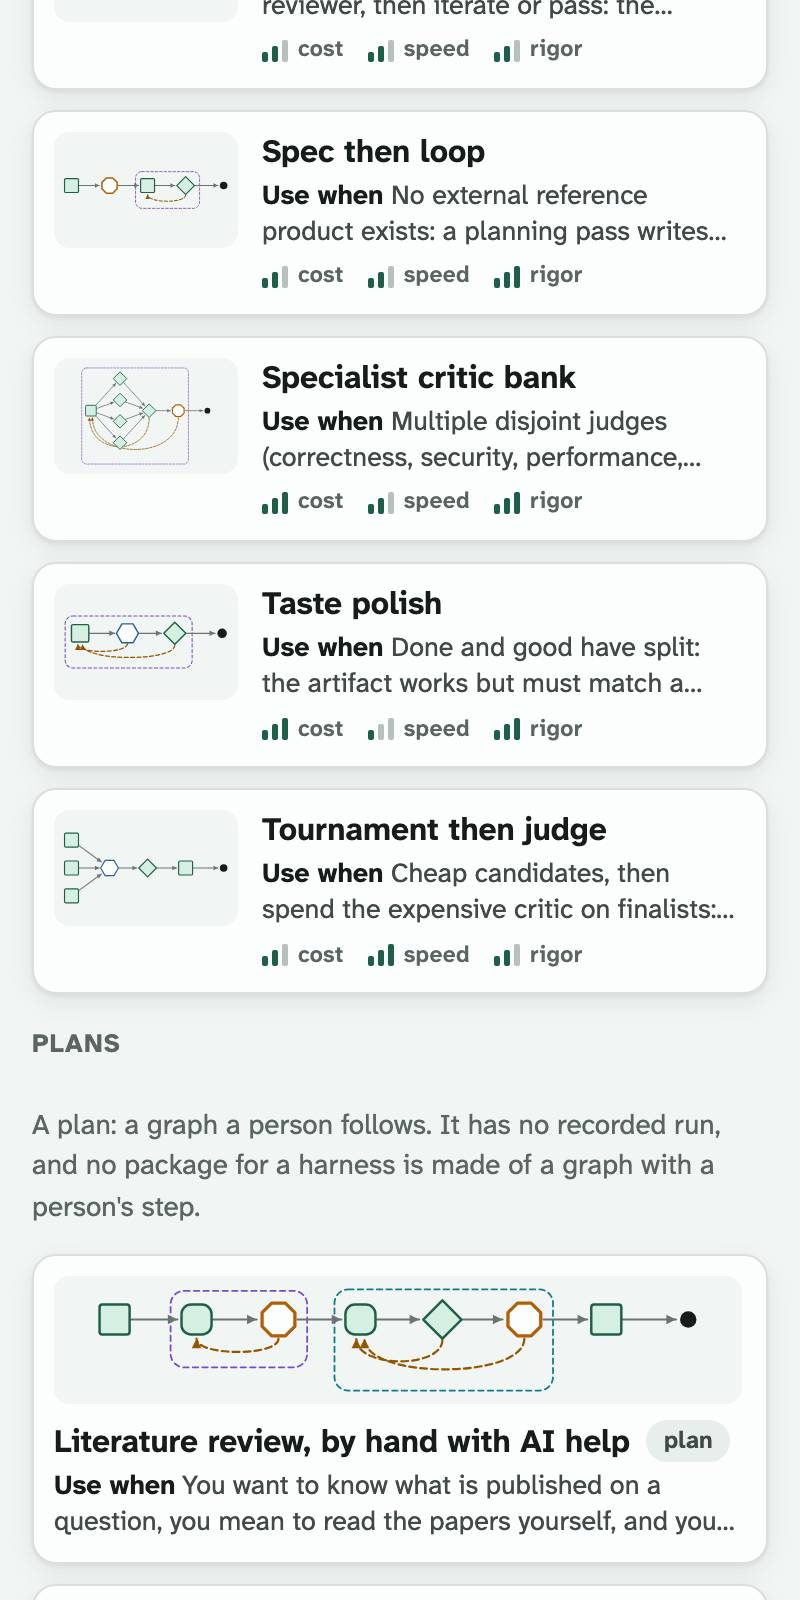
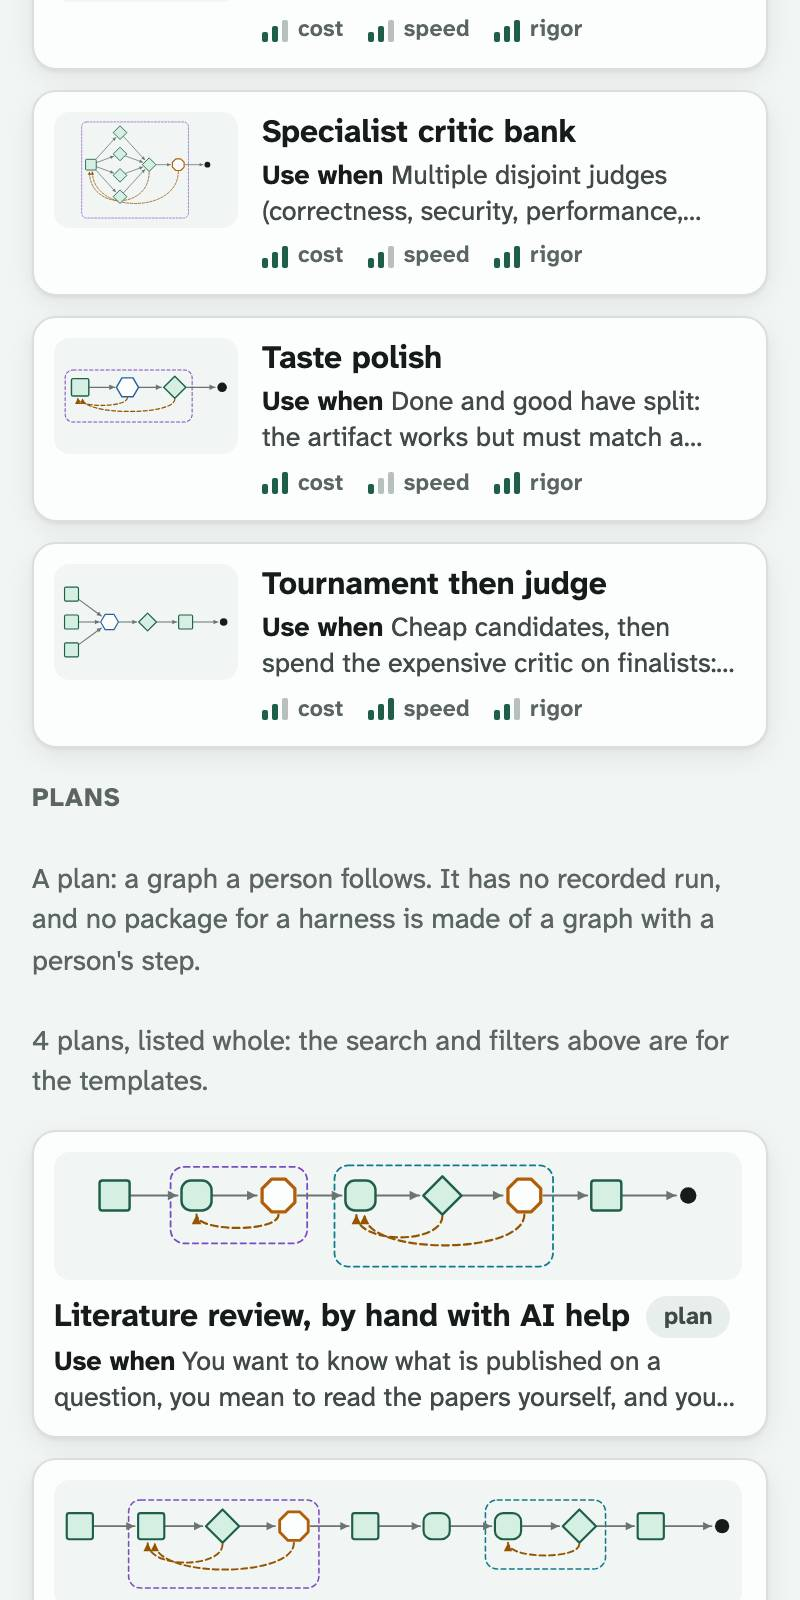
web: after an independent read: the embed and the 3D view call a person's step Person; the plans are listed whole
The embed's names and brief, and the view in three dimensions, say "Person" with
no tier and no capabilities. The search, filters and count on the templates
screen are the templates' own: the plans are listed whole under their heading,
with a line that says they came and takes the focus the button had. The lead is
not offered the switch; an agent's fields left on a person's step can be taken
off where the inspector says so. plans/README.md says what the app now shows.

Changed region(s): [[0.0312, 0.4688, 0.9375, 1.0], [0.0625, 0.0, 0.9375, 0.4688], [0.0625, 0.2188, 0.25, 0.2812]]

diff --git a/apps/web/e2e/person.spec.ts b/apps/web/e2e/person.spec.ts
@@ -3,7 +3,7 @@ import { join } from "node:path";
 
 import { expect, test } from "@playwright/test";
 
-import { closeSheet, fixturePath, importDocument, node, sheet, status, toolbar } from "./support.js";
+import { closeSheet, fixturePath, importDocument, linkFor, node, reviewLoop, sheet, status, toolbar } from "./support.js";
 
 /**
  * Slice 0100, the app's second part (amendment A-020): a step may be a person's. The inspector's switch, the
@@ -47,7 +47,7 @@ test("Done by: a person. The card says Person with the role alone, an agent's fi
   // The sheet calls the step what the card calls it.
   await expect(s.getByRole("heading", { name: "Person" })).toBeVisible();
   await expect(s.getByRole("button", { name: "Delete person" })).toBeVisible();
-  await expect(s).toContainText("A person does this step. It has no model, effort or capabilities; a graph with a person's step is a plan, and no package is made of it yet.");
+  await expect(s).toContainText("A person does this step. It has no model, effort, skills or capabilities; a graph with a person's step is a plan, and no package is made of it yet.");
   // No error of the graph: the builder's work is still judged, by a person now.
   await expect(status(page)).not.toHaveText(/error/);
   if (shots) {
@@ -65,7 +65,8 @@ test("Done by: a person. The card says Person with the role alone, an agent's fi
   await closeSheet(page);
   await status(page).tap();
   await expect(s.getByRole("group", { name: "For a package" })).toContainText("Every step an agent's: Critic is a person's, and grooph cannot yet hand a step to a person inside a harness.");
-  await expect(s.locator(".issue-code")).not.toContainText(["E_PERSON_STEP_NOT_COMPILED"]);
+  // Said as a need, in words, and nowhere as a code or an error.
+  await expect(s).not.toContainText("E_PERSON_STEP_NOT_COMPILED");
   await closeSheet(page);
 
   // One edit, so one Undo: the step is an agent's again, on its tier and at its effort, with its capabilities.
@@ -98,6 +99,19 @@ test("the plans are listed apart, under their own heading, fetched when they are
   const rows = page.getByRole("list", { name: "Plan templates" }).locator("a.template-row");
   await expect(rows).toHaveCount(4);
   expect(asked.length).toBe(1);
+  // The button is gone; what says the plans came is still there, and has the focus the button had.
+  await expect(plans.getByRole("status")).toHaveText("4 plans, listed whole: the search and filters above are for the templates.");
+  await expect(plans.getByRole("status")).toBeFocused();
+  // The search, the filters and the count are the templates' own: the plans stay, whole, and the count is of the twenty.
+  const search = page.getByRole("searchbox", { name: "Search templates" });
+  await search.fill("solo");
+  await expect(page.locator(".browse-shown")).toHaveText("0 of 20");
+  await expect(page.locator(".browse-none")).toContainText("No template matches.");
+  await expect(rows).toHaveCount(4);
+  // What says no template matches is said before the plans, not under them.
+  expect(await page.locator(".browse-none").evaluate((el) => !!(el.compareDocumentPosition(document.getElementById("plans-title")!) & Node.DOCUMENT_POSITION_FOLLOWING))).toBe(true);
+  await search.fill("");
+  await expect(page.locator(".browse-shown")).toHaveText("20 templates");
   await expect(rows.locator(".template-title")).toHaveText([/^Literature review.*plan$/, /^Research study.*plan$/, /^Solo project.*plan$/, /^Team handoffs.*plan$/]);
   // A plan's profile was not measured, so no meters are drawn for it; the twenty keep theirs.
   await expect(page.getByRole("list", { name: "Plan templates" }).locator(".template-meters")).toHaveCount(0);
@@ -148,11 +162,68 @@ test("the plans refused: the list says so and tries again; a plan's own address 
   // The built-in templates are listed all the same.
   await expect(page.getByRole("list", { name: "Built-in templates" }).locator("a.template-row")).toHaveCount(20);
 
-  await page.goto("./#/templates/plan/solo-project");
-  await expect(page.locator(".notfound")).toContainText("The plans could not be fetched. They need a connection the first time.");
-
+  // With the connection back, the same button, pressed on the same page, fetches them.
   refuse = false;
-  await page.goto("./#/templates");
-  await page.getByRole("region", { name: "Plans" }).getByRole("button", { name: "Show the plans" }).tap();
+  await plans.getByRole("button", { name: "Try again" }).tap();
   await expect(page.getByRole("list", { name: "Plan templates" }).locator("a.template-row")).toHaveCount(4);
+
+  // A plan's own address, opened by a visit that cannot fetch the plans, says so.
+  refuse = true;
+  await page.goto("./#/templates/plan/solo-project");
+  await page.reload();
+  await expect(page.locator(".notfound")).toContainText("The plans could not be fetched. They need a connection the first time.");
+});
+
+test("the lead is never offered to a person; an agent's fields left on a person's step can be taken off where they are said", async ({ page }) => {
+  const doc = reviewLoop();
+  const critic = doc.nodes.find((n) => n.id === "critic")!;
+  // A document made elsewhere: a person's step that still carries a tier, an effort and capabilities, and a lead.
+  Object.assign(critic, { by: "person" });
+  Object.assign(doc.nodes.find((n) => n.id === "builder")!, { role: "lead" });
+  await importDocument(page, "review-loop.grooph.json", JSON.stringify(doc));
+  const s = sheet(page);
+  await status(page).tap();
+  await expect(s).toContainText("W_PERSON_FIELDS_NOT_READ");
+  await closeSheet(page);
+
+  await node(page, "critic").tap();
+  await expect(s).toContainText("A person does this step, and it still has an agent's model, effort, skills or capabilities, which are not read.");
+  await s.getByRole("button", { name: "Take them off" }).tap();
+  await expect(s).toContainText("A person does this step. It has no model, effort, skills or capabilities;");
+  await expect(s.getByRole("button", { name: "Take them off" })).toHaveCount(0);
+  await closeSheet(page);
+  await status(page).tap();
+  await expect(s).not.toContainText("W_PERSON_FIELDS_NOT_READ");
+  await closeSheet(page);
+
+  // The lead: the session itself. No switch is drawn for it; its other fields are.
+  await node(page, "builder").tap();
+  await expect(s.getByLabel("Role")).toHaveValue("lead");
+  await expect(s.getByRole("radiogroup", { name: "Done by" })).toHaveCount(0);
+  await expect(s.getByRole("radiogroup", { name: "Model tier" })).toBeVisible();
+});
+
+test("a shared graph with a person's step: the embed and the view in three dimensions call the step Person, with no tier and no capabilities", async ({ page }) => {
+  const doc = reviewLoop();
+  // Left as a document made elsewhere might leave it: the mark, with the agent's fields still on the step.
+  Object.assign(doc.nodes.find((n) => n.id === "critic")!, { by: "person" });
+
+  await page.goto(linkFor(doc).replace("#/open?", "#/embed?"));
+  await expect(page.getByRole("button", { name: /^Agent Builder\b/ })).toBeVisible();
+  const critic = page.getByRole("button", { name: /^Person Critic\b/ });
+  await expect(critic).toBeVisible();
+  await expect(page.getByRole("button", { name: /^Agent Critic\b/ })).toHaveCount(0);
+  await critic.tap();
+  const brief = page.getByRole("dialog");
+  await expect(brief).toContainText("Person");
+  await expect(brief).toContainText("critic");
+  await expect(brief).not.toContainText("strong");
+  await expect(brief.getByText("May", { exact: true })).toHaveCount(0);
+  await expect(brief.getByText("May not", { exact: true })).toHaveCount(0);
+
+  await page.goto(linkFor(doc));
+  await page.getByRole("radiogroup", { name: "View of the graph" }).getByRole("radio", { name: "3D" }).click();
+  await expect(page.locator(".space-scene")).toBeVisible();
+  await expect(page.locator('.space [data-node="critic"]')).toHaveAttribute("aria-label", /^Person Critic/);
+  await expect(page.locator('.space [data-node="builder"]')).toHaveAttribute("aria-label", /^Agent Builder/);
 });

diff --git a/apps/web/src/ui/templates/TemplatesScreen.tsx b/apps/web/src/ui/templates/TemplatesScreen.tsx
@@ -1,5 +1,5 @@
 import type { Graph, Profile, TemplateKind } from "@grooph/core";
-import { useEffect, useMemo, useState, type ReactNode } from "react";
+import { useEffect, useMemo, useRef, useState, type ReactNode } from "react";
 
 import { EMPTY_BROWSE, SORT_LABEL, activeFilters, allTags, browse, isDefault, loadBrowse, saveBrowse, toggled, type Browse, type SortKey } from "../../doc/browse.js";
 import { PLAN_NOTE, PROFILE_LEVEL, PROFILE_OPTIONS, PROFILE_TEXT, builtIns, loadBuiltIns, loadPlanTemplates, planTemplates, type TemplateSource } from "../../doc/templates.js";
@@ -66,9 +66,13 @@ export function TemplatesScreen() {
   // The plans (slice 0100) are a piece of their own, fetched when a person asks to see them and not before: here at
   // once if this visit has fetched them already, and otherwise behind the button. `null` when they could not be had.
   const [plans, setPlans] = useState<readonly Graph[] | null | undefined | "asking">(planTemplates);
+  // The button goes when the plans come, so what says they came is given the focus the button had.
+  const said = useRef<HTMLParagraphElement>(null);
   const showPlans = (): void => {
     setPlans("asking");
-    loadPlanTemplates().then(setPlans, () => setPlans(null));
+    loadPlanTemplates()
+      .then(setPlans, () => setPlans(null))
+      .then(() => setTimeout(() => said.current?.focus()));
   };
   const total = all.length;
   const filters = activeFilters(state);
@@ -189,23 +193,6 @@ export function TemplatesScreen() {
         </p>
       ) : null}
 
-      <section aria-labelledby="plans-title">
-        <h2 className="list-title" id="plans-title">
-          Plans
-        </h2>
-        <p className="muted templates-hint">{PLAN_NOTE}</p>
-        {plans && plans !== "asking" ? (
-          <TemplateList source="plan" docs={browse(plans, state)} />
-        ) : (
-          <p className="muted templates-hint" role="status">
-            {plans === null ? "The plans could not be fetched. They need a connection the first time. " : null}
-            <button type="button" className="btn" disabled={plans === "asking"} onClick={showPlans}>
-              {plans === null ? "Try again" : plans === "asking" ? "Fetching the plans…" : "Show the plans"}
-            </button>
-          </p>
-        )}
-      </section>
-
       {shown === 0 ? (
         <p className="muted templates-hint browse-none" role="status">
           No template matches.{" "}
@@ -214,6 +201,28 @@ export function TemplatesScreen() {
           </button>
         </p>
       ) : null}
+
+      {/* The plans are listed whole, apart: the search, the filters and the count above are the templates' own. A
+          plan's cost, speed and rigor were not measured (plans/README.md), so nothing sorts or filters by them. */}
+      <section aria-labelledby="plans-title">
+        <h2 className="list-title" id="plans-title">
+          Plans
+        </h2>
+        <p className="muted templates-hint">{PLAN_NOTE}</p>
+        <p className="muted templates-hint" role="status" tabIndex={-1} ref={said}>
+          {plans && plans !== "asking" ? (
+            `${plans.length} plans, listed whole: the search and filters above are for the templates.`
+          ) : (
+            <>
+              {plans === null ? "The plans could not be fetched. They need a connection the first time. " : null}
+              <button type="button" className="btn" disabled={plans === "asking"} onClick={showPlans}>
+                {plans === null ? "Try again" : plans === "asking" ? "Fetching the plans…" : "Show the plans"}
+              </button>
+            </>
+          )}
+        </p>
+        {plans && plans !== "asking" ? <TemplateList source="plan" docs={plans} /> : null}
+      </section>
 
       {yours && yours.length === 0 ? (
         <p className="muted templates-hint">

diff --git a/apps/web/src/ui/inspector/NodeInspector.tsx b/apps/web/src/ui/inspector/NodeInspector.tsx
@@ -116,6 +116,9 @@ const as = <N extends Node>(fn: (n: N) => N) => (n: Node) => fn(n as N);
 
 const CUSTOM = "__custom";
 
+/** What only an agent has: the fields the validator does not read on a person's step. */
+const AGENTS_ONLY = ["model", "effort", "skills", "allow", "deny"] as const;
+
 /**
  * Make a step a person's, or an agent's again (amendment A-020). A person is on no model tier and at no effort,
  * loads no skills and is granted no capabilities, and the validator warns of any of them left on a person's step
@@ -133,18 +136,36 @@ function AgentFields({ node, update }: { node: AgentNode; update: Update }) {
   const set = (fn: (n: AgentNode) => AgentNode) => update(as(fn));
   const custom = typeof node.role !== "string";
   const person = isPersonStep(node);
+  // A document made elsewhere may give a person's step an agent's fields (`W_PERSON_FIELDS_NOT_READ`). None of them
+  // is drawn for a person, so the way to take them off is here.
+  const left = person && AGENTS_ONLY.some((field) => node[field] !== undefined && !(Array.isArray(node[field]) && node[field].length === 0));
   return (
     <>
-      <Segmented
-        label="Done by"
-        value={stepBy(node)}
-        options={[
-          { value: "agent", label: "an agent" },
-          { value: "person", label: "a person" },
-        ]}
-        hint={person ? "A person does this step. It has no model, effort or capabilities; a graph with a person's step is a plan, and no package is made of it yet." : undefined}
-        onChange={(v) => set((n) => doneBy(n, v))}
-      />
+      {/* The lead is the session itself and is never a person's (`E_PERSON_LEAD`): the switch is not offered for it,
+          unless a document already says so, and then it is the way back. */}
+      {node.role === "lead" && !person ? null : (
+        <Segmented
+          label="Done by"
+          value={stepBy(node)}
+          options={[
+            { value: "agent", label: "an agent" },
+            { value: "person", label: "a person" },
+          ]}
+          hint={
+            left ? (
+              <>
+                A person does this step, and it still has an agent's model, effort, skills or capabilities, which are not read.{" "}
+                <button type="button" className="link" onClick={() => set((n) => doneBy(n, "person"))}>
+                  Take them off
+                </button>
+              </>
+            ) : person ? (
+              "A person does this step. It has no model, effort, skills or capabilities; a graph with a person's step is a plan, and no package is made of it yet."
+            ) : undefined
+          }
+          onChange={(v) => set((n) => doneBy(n, v))}
+        />
+      )}
       <Select
         label="Role"
         value={custom ? CUSTOM : (node.role as Role)}

diff --git a/apps/web/src/ui/canvas/graph-views.tsx b/apps/web/src/ui/canvas/graph-views.tsx
@@ -113,8 +113,10 @@ export function graphScene(doc: Graph, per: number, card: number, notes?: readon
     (standing.get(home(id)) ?? standing.set(home(id), []).get(home(id))!).push(node);
   }
   const drawn = (node: Node): Scene["sheets"][number]["items"][number] => {
-    const [under, tone] = node.kind === "agent" ? [roleName(node), "accent" as const] : KIND[node.kind];
-    const tier = node.kind === "agent" && node.model ? node.model.tier : "";
+    // A person's step: "Person" before its role, in a gate's tone, and no tier (amendment A-020), as in Panes.
+    const persons = node.kind === "agent" && node.by === "person";
+    const [under, tone] = node.kind === "agent" ? (persons ? [`Person · ${roleName(node)}`, "gate" as const] : [roleName(node), "accent" as const]) : KIND[node.kind];
+    const tier = node.kind === "agent" && !persons && node.model ? node.model.tier : "";
     const lines = wrap(node.name || node.id, card - 16, 12.5, 3, "bold");
     const h = 7 + lines.length * 15 + 13 + (tier ? 11.5 : 0) + 6;
     return {
@@ -341,7 +343,7 @@ export function Views({ doc, of }: { doc: Graph; of: { onNodeTap?: (id: Id) => v
       const node = doc.nodes.find((n) => n.id === el.dataset["node"]);
       el.setAttribute("tabindex", "0");
       el.setAttribute("role", "button");
-      el.setAttribute("aria-label", `${node?.kind === "agent" ? "Agent" : (KIND[node?.kind as "stop"]?.[0] ?? "Node")} ${name(el.dataset["node"]!)}`);
+      el.setAttribute("aria-label", `${node?.kind === "agent" ? (node.by === "person" ? "Person" : "Agent") : (KIND[node?.kind as "stop"]?.[0] ?? "Node")} ${name(el.dataset["node"]!)}`);
     }
     for (const el of root.querySelectorAll<SVGGElement>("[data-edge]")) {
       const at = made.arcs.find((arc) => arc.id === el.dataset["edge"]);

diff --git a/apps/web/src/ui/embed/Brief.tsx b/apps/web/src/ui/embed/Brief.tsx
@@ -63,13 +63,15 @@ function NodeBody({ doc, node, run }: { doc: Graph; node: Node; run?: RunHere })
   switch (node.kind) {
     case "agent": {
       const role = typeof node.role === "string" ? node.role : node.role.custom;
+      // A person's step has a role and no tier, effort or capabilities: what a document still carries of those is not read.
+      const agents = node.by !== "person";
       rows.push(
-        ["Role", [role, node.model?.tier, node.effort].filter(Boolean).join(" · ")],
+        ["Role", agents ? [role, node.model?.tier, node.effort].filter(Boolean).join(" · ") : role],
         ["Brief", <p className="gx-prose">{node.brief}</p>],
         ["Reads", list(node.inputs)],
         ["Leaves", list(node.outputs)],
-        ["May", node.allow?.join(", ")],
-        ["May not", node.deny?.join(", ")],
+        ["May", agents ? node.allow?.join(", ") : undefined],
+        ["May not", agents ? node.deny?.join(", ") : undefined],
         ["Irreversible", node.irreversible?.join(", ")],
       );
       break;
@@ -171,7 +173,7 @@ export function pickedTitle(doc: Graph | OperationMap, picked: Picked): { kind: 
   if ("grooph" in doc) {
     if (picked.kind === "node") {
       const node = doc.nodes.find((n) => n.id === picked.id);
-      return node ? { kind: KIND[node.kind], name: node.name || node.id } : undefined;
+      return node ? { kind: node.kind === "agent" && node.by === "person" ? "Person" : KIND[node.kind], name: node.name || node.id } : undefined;
     }
     if (picked.kind === "loop") {
       const loop = doc.loops.find((l) => l.id === picked.id);

diff --git a/apps/web/test/person.test.ts b/apps/web/test/person.test.ts
@@ -51,10 +51,7 @@ describe("a person's step in the app (slice 0100)", () => {
     const doc = reviewLoop();
     expect(nodeLabel(critic(doc))).toBe("Agent: Critic");
     expect(nodeLabel(doneBy(critic(doc), "person"))).toBe("Person: Critic");
-    // The card itself: the word, the gate's mark, and the role alone (the browser test reads the card).
-    const card = read("ui/canvas/GraphNode.tsx");
-    expect(card).toContain('`kind-mark kind-${isPersonStep(node) ? "human-gate" : node.kind}`');
-    expect(card).toContain("return isPersonStep(node) ? role : [role, node.model?.tier, node.effort].filter(Boolean).join(\" · \");");
+    // The card itself (the word, the gate's mark and color, the role alone) is read in the browser: e2e/person.spec.ts.
   });
 
   it("the plan templates are the four in plans/, each a plan, and are handed over once they have been asked for", async () => {
@@ -95,6 +92,9 @@ describe("a person's step in the app (slice 0100)", () => {
     const list = read("ui/templates/TemplatesScreen.tsx");
     expect(list.match(/loadPlanTemplates\(/g)).toHaveLength(1);
     expect(list).toMatch(/const showPlans = \(\): void => \{\s*setPlans\("asking"\);\s*loadPlanTemplates\(\)/);
+    // And the plans are listed whole: the search, the filters and the sort, which read a profile nobody measured, are not theirs.
+    expect(list).toContain('<TemplateList source="plan" docs={plans} />');
+    expect(list).not.toMatch(/browse\(plans/);
     expect(list).toContain("onClick={showPlans}");
   });
 });

diff --git a/apps/web/src/ui/embed/decorate.ts b/apps/web/src/ui/embed/decorate.ts
@@ -56,7 +56,8 @@ export function decorateGraph(root: SVGSVGElement, doc: Graph, replay?: { step: 
     const id = g.dataset["node"]!;
     const node = doc.nodes.find((n) => n.id === id);
     const run = summary?.nodes[id];
-    const kind = node ? (KIND[node.kind] ?? node.kind) : "Node";
+    // A step a person does is called what core's picture, beside these words, calls it (amendment A-020).
+    const kind = node ? (node.kind === "agent" && node.by === "person" ? "Person" : (KIND[node.kind] ?? node.kind)) : "Node";
     reachable(g, `${kind} ${node?.name || id}${run && run.state !== "pending" ? `, ${run.state}` : run ? ", not reached yet" : ""}`);
     if (!run) {
       delete g.dataset["state"];

diff --git a/apps/web/src/ui/canvas/GraphNode.tsx b/apps/web/src/ui/canvas/GraphNode.tsx
@@ -23,8 +23,6 @@ export type GraphNodeData = {
 
 export type GraphFlowNode = Node<GraphNodeData, "graph">;
 
-/** What a card says a node is: its kind, or, of a step that is a person's (amendment A-020), whose it is. */
-
 /** What a node is called to someone who cannot see it: its kind and its name. */
 export const nodeLabel = (node: DocNode): string => `${kindLabel(node)}: ${node.name || node.id}`;
 

diff --git a/plans/README.md b/plans/README.md
@@ -114,7 +114,7 @@ Everything that counts, lists, bundles or tests the built-in templates reads `pa
 
 - the twenty built-in templates stay twenty, in every count and on every generated page;
 - the field guide's "Of the twenty recorded runs eighteen passed their check and two did not" still counts what it counted, the runs of the twenty built-in templates;
-- `grooph template list` and the app do not show these until someone copies them in, and the app loads none of them;
+- `grooph template list` does not show these until someone copies them in. The app lists them apart from the twenty, under their own heading "Plans" on its templates screen, and fetches them only when someone asks to see them, so no address's first load carries them;
 - no generated file changes. The one check that had to learn of the folder is the spelling check, which now reads it.
 
-A person who installs grooph does not get these four yet: nothing in the package carries the folder. Until grooph lists plan templates itself, copy them in as above. Their ids and names will stay as they are, so that what lists them later can rely on them.
+A person who installs grooph's command line does not get these four yet: nothing in the package carries the folder. The app shows them, and a plan can be started from one there. Until the command line lists plan templates itself, copy them in as above. Their ids and names will stay as they are, so that what lists them later can rely on them.
